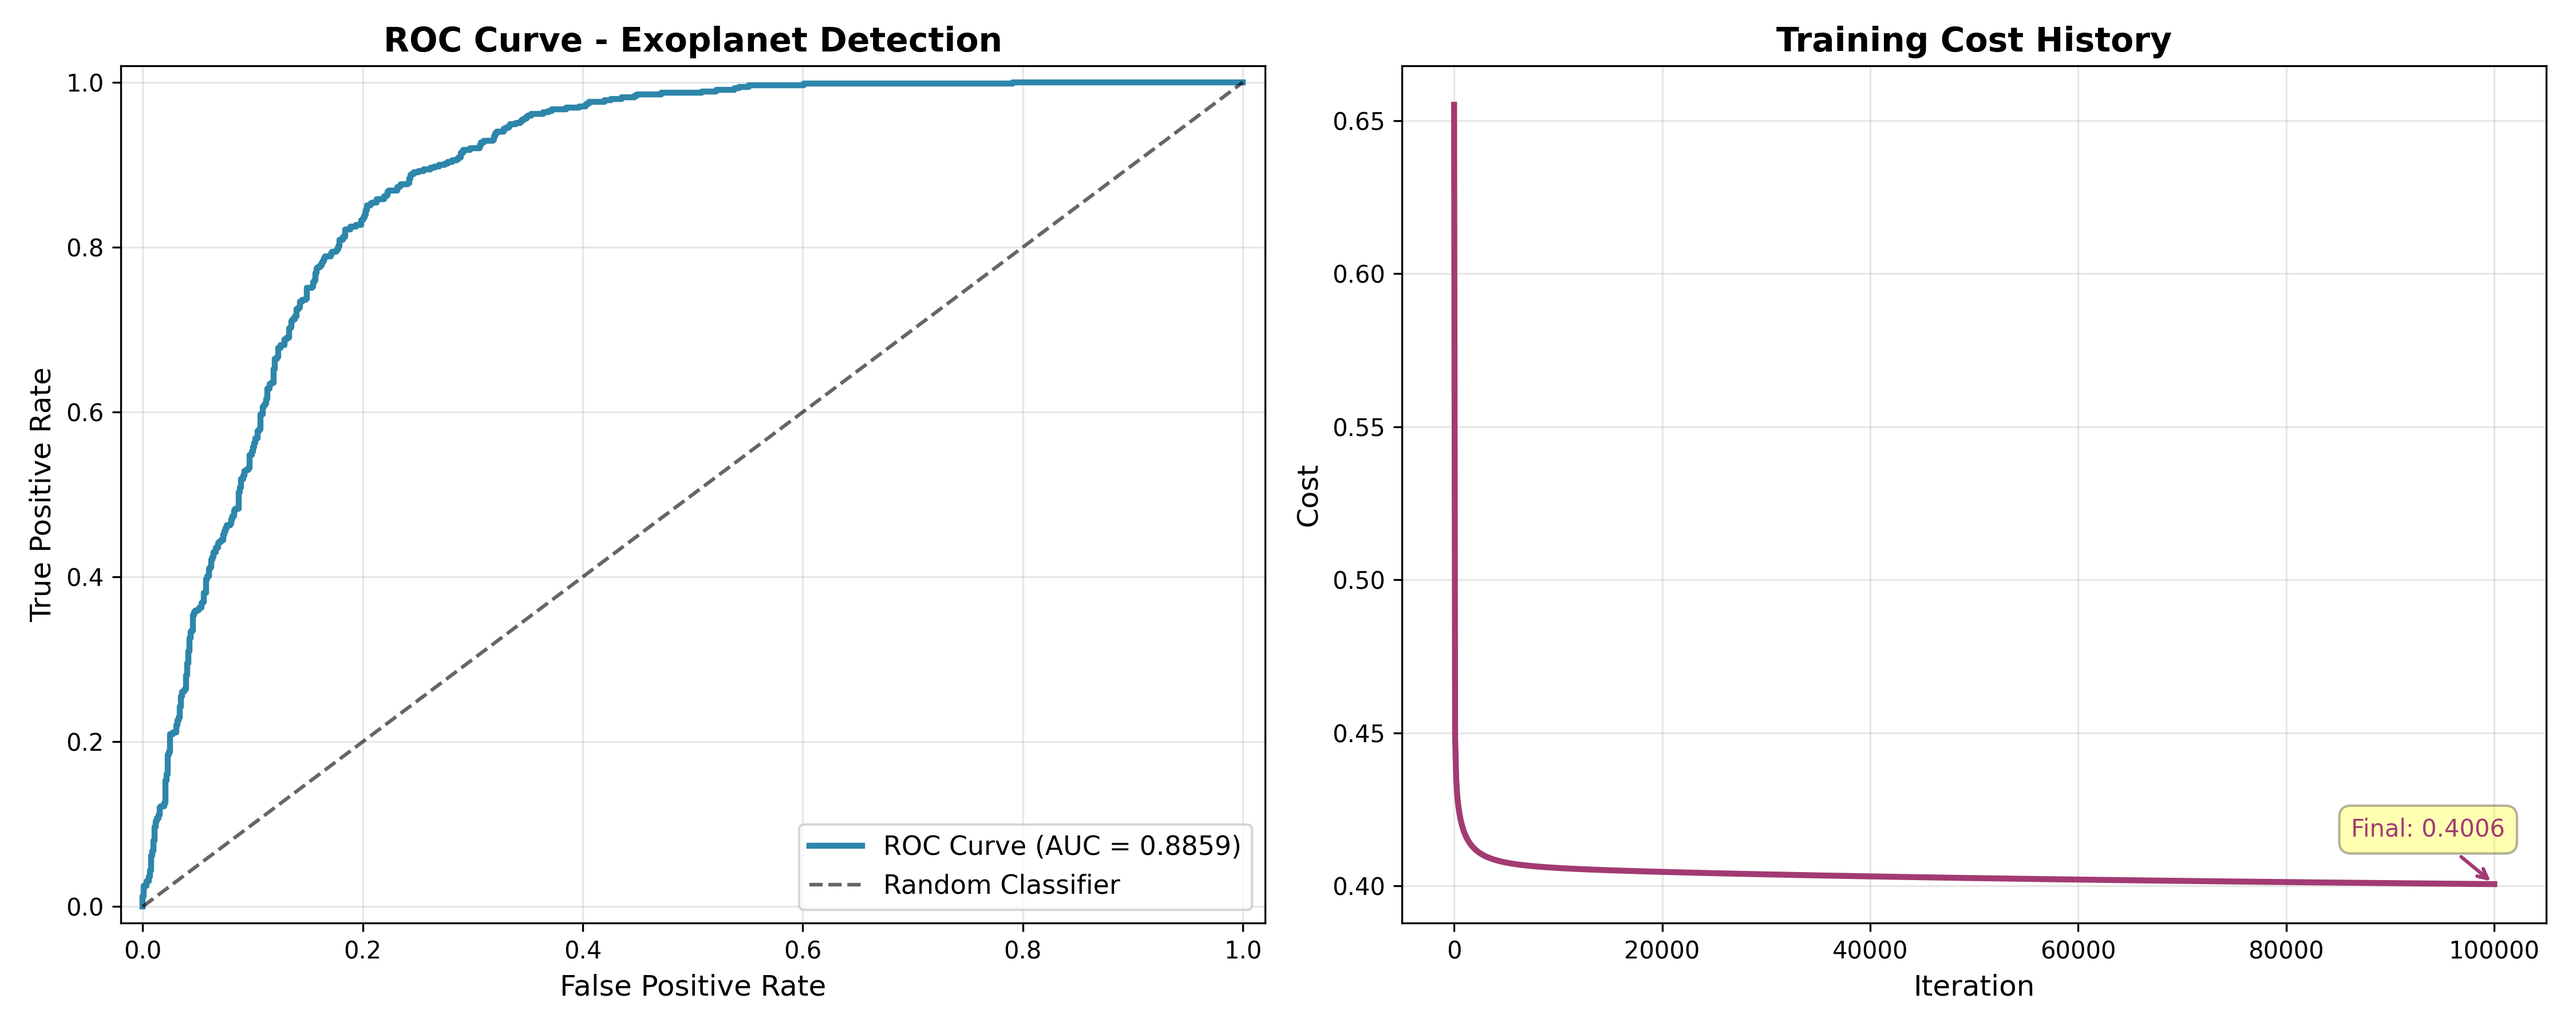
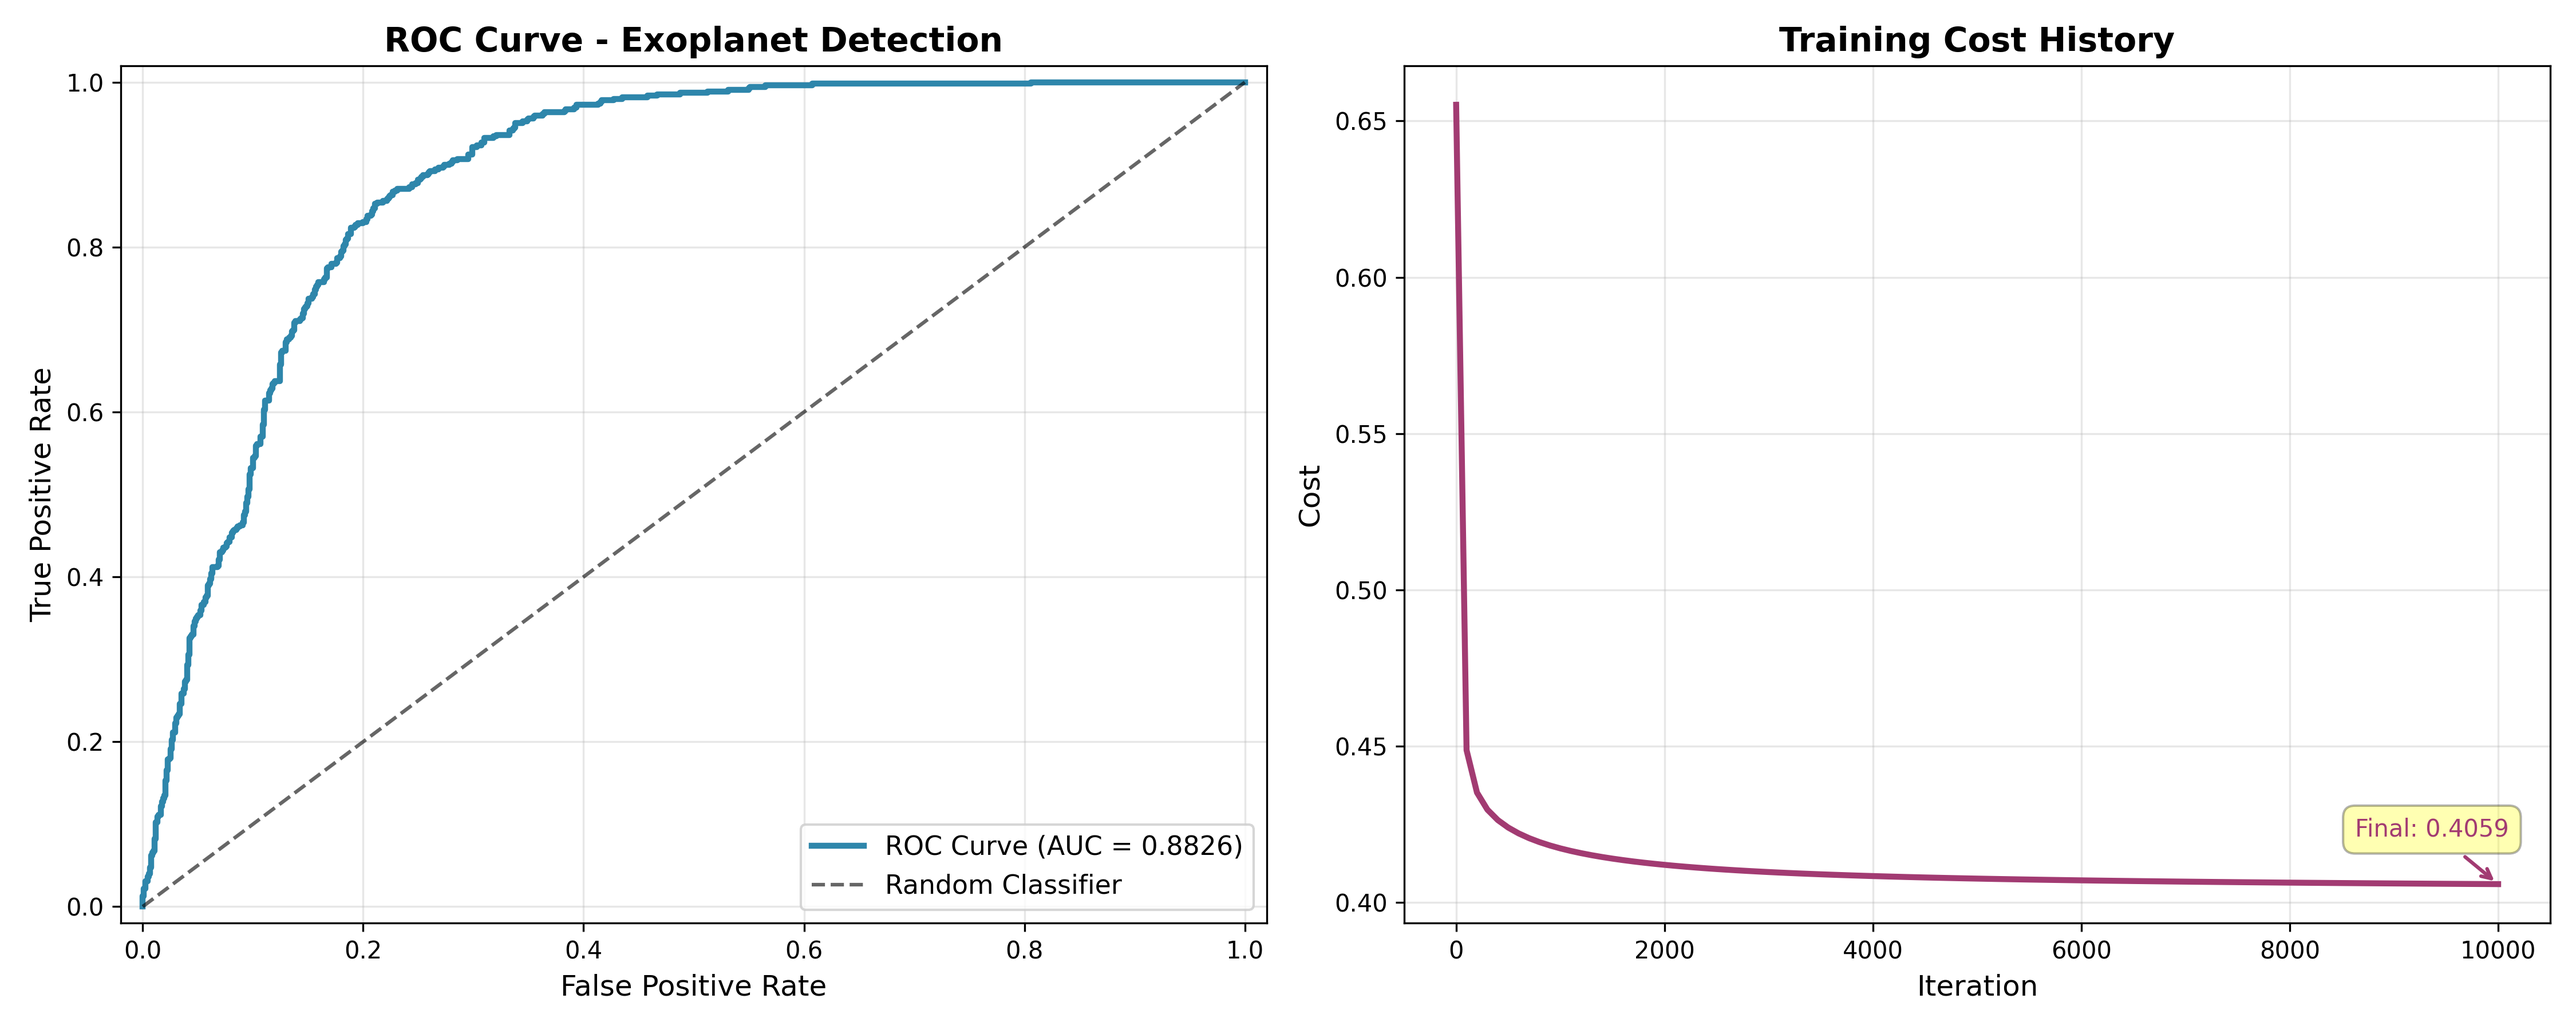
code updated

diff --git a/Kepler_Identification_Lg.py b/Kepler_Identification_Lg.py
@@ -2,6 +2,8 @@ import numpy as np
 import Logistic_regression as lg
 import Dataset_preprocessor as dp
 import matplotlib.pyplot as plt
+from sklearn.model_selection import train_test_split
+from sklearn.preprocessing import StandardScaler
 from sklearn.metrics import confusion_matrix, roc_auc_score,roc_curve
 
 
@@ -40,9 +42,9 @@ def plot_training_results(y_true, y_prob, cost_history):                        
     plt.show()
 
 def train_model(filepath,alpha=0.5,num_iter=10000,lambda_reg=0.01):                         # this fucntiosn trais our logistic regression model
-
-    X_train,X_test,Y_train,Y_test,X_train_scaled,X_test_scaled=dp.prepare_dataset(filepath)
-
+    X_train,X_test,Y_train,Y_test=dp.split_test_train_data(filepath)                        # splitting the dataset into training and tetsing
+    X_train_scaled, X_test_scaled=dp.scale_dataset(X_train,X_test)                                            # we tranform the variable so that the model doesn't get diverted by very large values so we need to scale it all down but still maintaing the ratio
+   
     print("\nTraining the model.....")
     theta,cost_history=lg.gradient_descent(X_train_scaled,Y_train,alpha,num_iter,lambda_reg,verbose=True)
     Y_train_pred=lg.predict(X_train_scaled,theta)
@@ -68,12 +70,12 @@ def train_model(filepath,alpha=0.5,num_iter=10000,lambda_reg=0.01):             
     print(confusion_matrix(Y_test, Y_test_pred))
     
     plot_training_results(Y_test,Y_test_prob,cost_history)
-    return theta, scaler, features
+    return theta
 
 if __name__=="__main__":
     filepath="data.csv"
     try:
-        theta,scaler,features=train_model(filepath,alpha=0.5,num_iter=100000,lambda_reg=0.01)
+        theta=train_model(filepath,alpha=0.5,num_iter=10000,lambda_reg=0.01)
         print("\n\n")
         print("MODEL TRAINING COMPLETE!")
         print("\n")

diff --git a/Kepler_Identification_KNN.py b/Kepler_Identification_KNN.py
@@ -2,6 +2,8 @@ import numpy as np
 import K_nearest_neighbour as knn
 import Dataset_preprocessor as dp
 import matplotlib.pyplot as plt
+from sklearn.model_selection import train_test_split
+from sklearn.preprocessing import StandardScaler
 
 def plot(metrics,accuracies):                                                   # This fucntions plots the accuracies of different distance fuction KNN for our dataset
     plt.figure(figsize=(12, 6))
@@ -24,8 +26,9 @@ def plot(metrics,accuracies):                                                   
 
 if __name__=="__main__":
     filepath="data.csv"
-    X_train,X_test,y_train,y_test,X_train_scaled,X_test_scaled=dp.prepare_dataset(filepath)         # getting our training and tetsing dataset properly scaled by the data preprocessor
-
+    X_train,X_test,y_train,y_test=dp.split_test_train_data(filepath)                        # Splitting the training and tetsing dataset
+    X_train_scaled, X_test_scaled=dp.scale_dataset(X_train,X_test)                                # we tranform the variable so that the model doesn't get diverted by very large values so we need to scale it all down but still maintaing the ratio
+    
     metrics=[]
     accuracies=[]
     for dist in ["euclidean","manhattan","mahalanobis","rbf","rbf_normalized"]:                     # for each each type of distance fucntion we create object and do the training and testing (for KNN training is just memorizing the dataset)

diff --git a/Dataset_preprocessor.py b/Dataset_preprocessor.py
@@ -31,9 +31,15 @@ def prepare_dataset(filepath):                                                  
 
     X=df_final[feature_comlumns].values
     y=df_final['target'].values
+    return X,y,feature_comlumns
 
+def split_test_train_data(filepath):
+    X,y,feature_columns=prepare_dataset(filepath)
     X_train,X_test,y_train,y_test=train_test_split(X,y,test_size=0.2,random_state=42,stratify=y)
+    return X_train,X_test,y_train,y_test
+
+def scale_dataset(X_train,X_test):
     scaler=StandardScaler()
     X_train_scaled=scaler.fit_transform(X_train)                                                # we tranform the variable so that the model doesn't get diverted by very large values so we need to scale it all down but still maintaing the ratio
     X_test_scaled=scaler.transform(X_test)
-    return X_train,X_test,y_train,y_test,X_train_scaled,X_test_scaled,feature_comlumns
+    return X_train_scaled,X_test_scaled

diff --git a/Logistic_regression.py b/Logistic_regression.py
@@ -54,7 +54,7 @@ def gradient_descent(X, y, alpha=0.1, num_iter=100, lambda_reg=0, tol=1e-7, verb
         if i % 100 == 0 or i == num_iter - 1:
             cost = compute_cost(theta, X_b, y, lambda_reg)
             cost_history.append(cost)
-            if verbose and i % (num_iter/100) == 0:
+            if verbose and i % (num_iter/100) == 0:                                                         # we print the training cost at total_number_of_iters/100 intervals
                 print(f"Iteration {i:5d}: Cost = {cost:.6f}, |grad| = {np.linalg.norm(grad):.6f}")
         
         if np.linalg.norm(grad) < tol:

diff --git a/K_nearest_neighbour.py b/K_nearest_neighbour.py
@@ -1,5 +1,7 @@
 import numpy as np
 from collections import Counter
+from sklearn.preprocessing import StandardScaler
+from sklearn.model_selection import train_test_split
 
 class KNN:                                                      # class for our KNN
     def __init__(self,k,dist_type):
